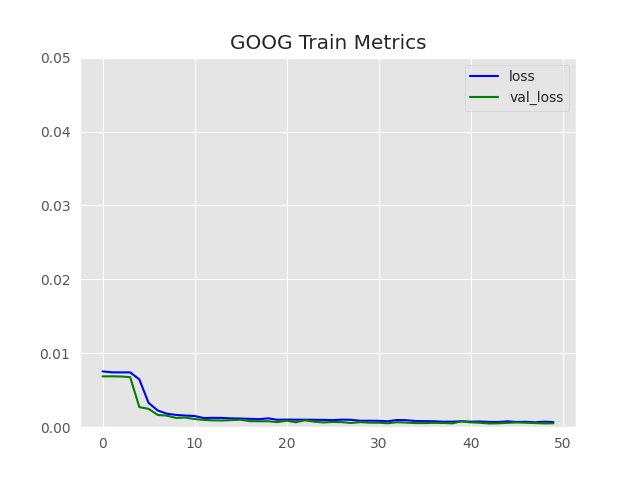
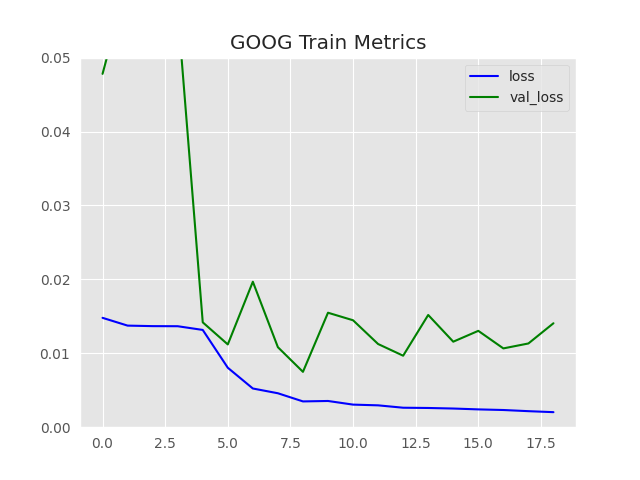
update

diff --git a/data_process.py b/data_process.py
@@ -47,7 +47,7 @@ if  df_type=="index":
 
 from sklearn.model_selection import train_test_split
 
-window_size=30
+window_size=100
 def data_window(df):
     X_close=[]
     Y_close=[]
@@ -63,12 +63,16 @@ def data_window(df):
         Y_close.append(np.array(temp2).reshape(1,1))
     return X_close,Y_close
 
-#X_close,Y_close=data_window(df_index)
+
 X_close,Y_close=data_window(df)
 # %%
-x_close_train, x_close_test, y_close_train, y_close_test = train_test_split(X_close, Y_close, test_size=0.2, random_state=42,shuffle=True)
 
-x_close_train, x_close_val, y_close_train, y_close_val = train_test_split(x_close_train,y_close_train, test_size=0.25, random_state=1) # 0.25 x 0.8 = 0.2
+n=len(X_close)
+split=int(n*0.8)
+x_close_train, x_close_test, y_close_train, y_close_test =X_close[:split],X_close[split:],Y_close[:split],Y_close[split:]
+
+var=int(split*0.8)
+x_close_train, x_close_val, y_close_train, y_close_val = x_close_train[:var],x_close_train[var:],y_close_train[:var],y_close_train[var:]
     
 x_close_train, x_close_test, y_close_train, y_close_test=np.array(x_close_train),np.array(x_close_test),np.array(y_close_train),np.array(y_close_test)
 

diff --git a/pnl.py b/pnl.py
@@ -1,0 +1,12 @@
+from train import mymodel
+from data_process import *
+import matplotlib.pyplot as plt
+from matplotlib.patches import Patch
+from packaging import version
+import os
+
+#t+1 data
+
+for i in range(len(x_close_test-1)):
+    x_close_forwards[i]=x_close_test[i+1]
+    y_close_forwards[i]=y_close_test[i+1]

diff --git a/train.py b/train.py
@@ -47,7 +47,7 @@ def plot_metrics(metric_name, title, ylim=2):
     plt.savefig(results_dir+sys.argv[2]+'train.png')
 
 plt.figure(1)
-plot_metrics(metric_name='loss',title="Loss",ylim=0.05)
+plot_metrics(metric_name='loss',title="Loss",ylim=11)
 
 # %%
 
